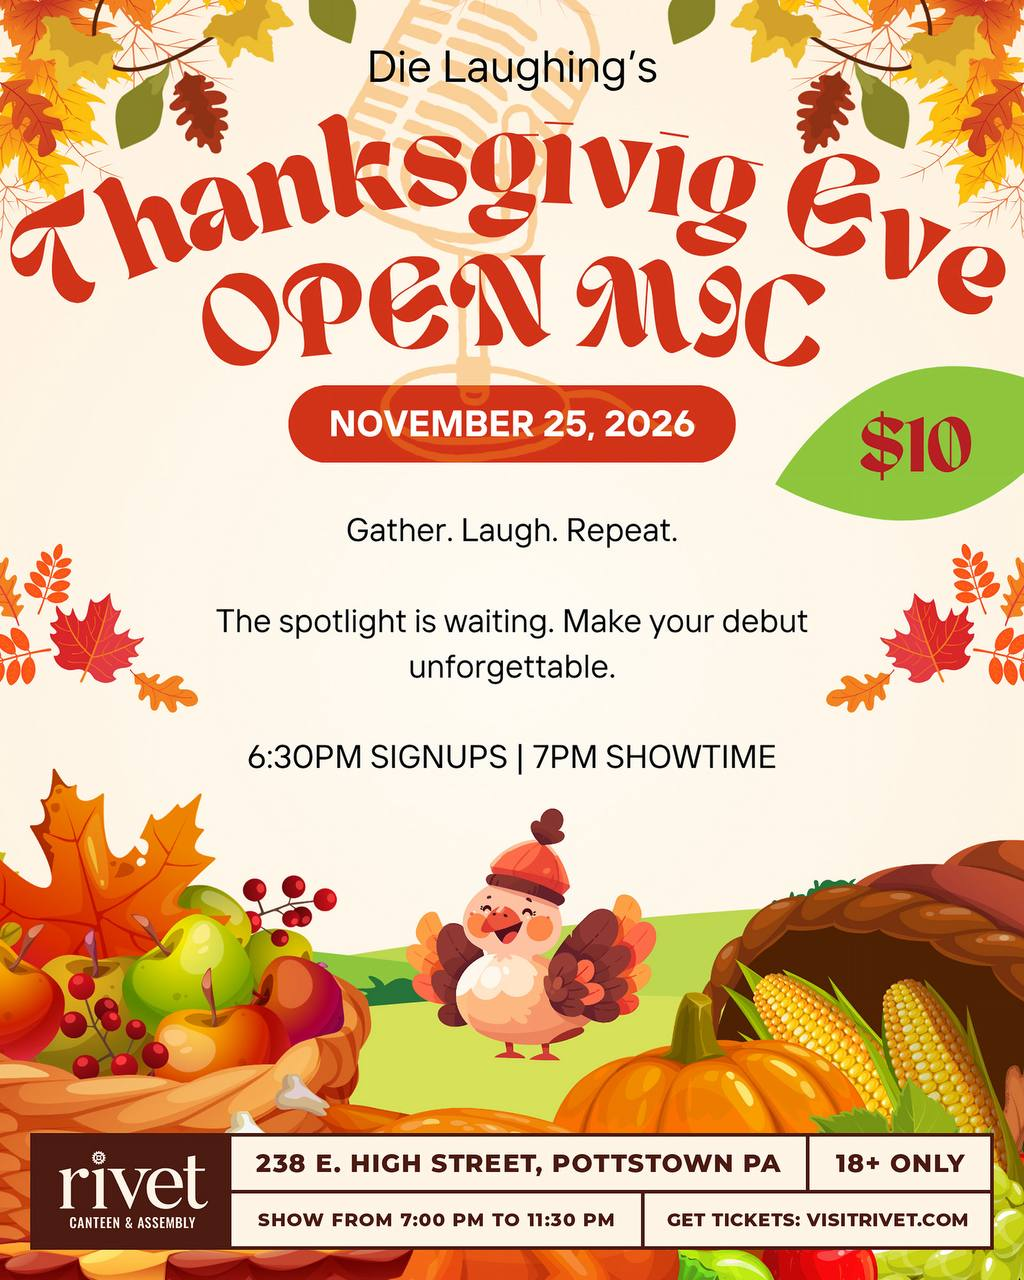
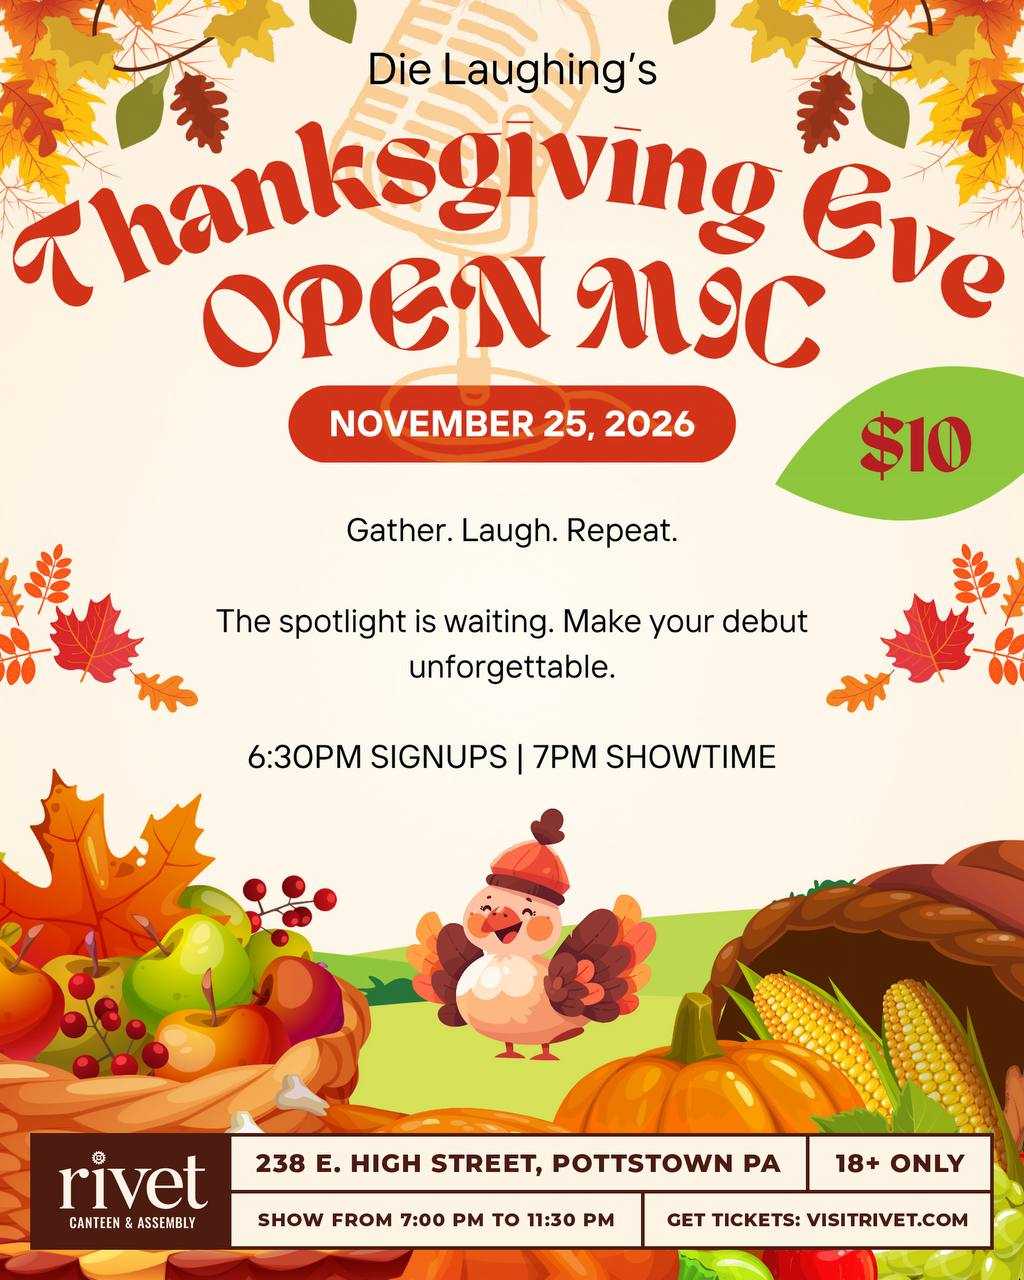
Add Sep 3, Sep 17, Nov 14, Dec 19 shows; archive Aug 6
Upcoming Shows:
- Sep 3  - Thirsty Thursday Open Mic Competition (Rivet, Pottstown), $10 door
- Sep 17 - Open Mic Comedy Night (Craft 2700 @ Freymoyer's, Reading), $10 door
- Nov 14 - Stuffin' It (Hotel Fiesole, Skippack), diestuffinit.eventbrite.com
- Dec 19 - A Hysterical Christmas (Hotel Fiesole, Skippack), dielaughingxmas.eventbrite.com

Also:
- Move Aug 6 Thirsty Thursday to Past Shows with its photo gallery link
- Replace Nov 25 Thanksgiving Eve flyer with version fixing "Thanksgivig" typo

Claude-Session: https://claude.ai/code/session_01RU1CjBsNL1P9VdQdH8oSWJ

diff --git a/home.html b/home.html
@@ -636,22 +636,43 @@
       </p>
     </div>
 
-    <!-- AUG 6TH SHOW - Thirsty Thursday Open Mic Competition at Rivet, Pottstown -->
-    <div class="swiper-slide show-card glass rounded-2xl p-6 sm:p-8 card-hover" data-show-date="2026-08-06">
+    <!-- SEP 3RD SHOW - Thirsty Thursday Open Mic Competition at Rivet, Pottstown -->
+    <div class="swiper-slide show-card glass rounded-2xl p-6 sm:p-8 card-hover" data-show-date="2026-09-03">
       <div class="flex justify-center">
         <div class="text-center">
           <img
-            src="flyer-thirsty-thursday-open-mic-aug6.jpg"
-            alt="Thirsty Thursday Open Mic Competition - Kickoff August 6, 2026 at Rivet, Pottstown PA"
-            width="1200" height="1500"
+            src="flyer-thirsty-thursday-open-mic-sep3.jpg"
+            alt="Thirsty Thursday Open Mic Competition - September 3, 2026 at Rivet, Pottstown PA"
+            width="1024" height="1280"
             class="w-full max-w-md mx-auto h-auto rounded-2xl shadow-2xl cursor-pointer hover:scale-105 transition ring-2 ring-white/10"
             loading="lazy" decoding="async"
-            onclick="openModal(this.src, 'Thirsty Thursday Open Mic Competition - August 6, 2026')">
+            onclick="openModal(this.src, 'Thirsty Thursday Open Mic Competition - September 3, 2026')">
           <p class="mt-6 inline-flex items-center gap-2 text-base font-bold text-white">
             <svg class="w-5 h-5 text-pink-400" fill="none" stroke="currentColor" stroke-width="2" viewBox="0 0 24 24" aria-hidden="true">
               <path stroke-linecap="round" stroke-linejoin="round" d="M15 5v2m0 4v2m0 4v2M5 5a2 2 0 0 0-2 2v3a2 2 0 0 1 0 4v3a2 2 0 0 0 2 2h14a2 2 0 0 0 2-2v-3a2 2 0 0 1 0-4V7a2 2 0 0 0-2-2H5z"/>
             </svg>
-            $10 cover at the door • 6:30 signups, 7PM showtime
+            $10 cover at the door &bull; 6:30 signups, 7PM showtime
+          </p>
+        </div>
+      </div>
+    </div>
+
+    <!-- SEP 17TH SHOW - Open Mic Comedy Night at Craft 2700 @ Freymoyer's, Reading -->
+    <div class="swiper-slide show-card glass rounded-2xl p-6 sm:p-8 card-hover" data-show-date="2026-09-17">
+      <div class="flex justify-center">
+        <div class="text-center">
+          <img
+            src="flyer-craft2700-open-mic-sep17.jpg"
+            alt="Open Mic Comedy Night presented by Die Laughing - September 17, 2026 at Craft 2700 @ Freymoyer's, Reading PA"
+            width="853" height="1280"
+            class="w-full max-w-md mx-auto h-auto rounded-2xl shadow-2xl cursor-pointer hover:scale-105 transition ring-2 ring-white/10"
+            loading="lazy" decoding="async"
+            onclick="openModal(this.src, 'Open Mic Comedy Night at Craft 2700 - September 17, 2026')">
+          <p class="mt-6 inline-flex items-center gap-2 text-base font-bold text-white">
+            <svg class="w-5 h-5 text-pink-400" fill="none" stroke="currentColor" stroke-width="2" viewBox="0 0 24 24" aria-hidden="true">
+              <path stroke-linecap="round" stroke-linejoin="round" d="M15 5v2m0 4v2m0 4v2M5 5a2 2 0 0 0-2 2v3a2 2 0 0 1 0 4v3a2 2 0 0 0 2 2h14a2 2 0 0 0 2-2v-3a2 2 0 0 1 0-4V7a2 2 0 0 0-2-2H5z"/>
+            </svg>
+            $10 entry at the door &bull; 6:30 registration, 7PM showtime
           </p>
         </div>
       </div>
@@ -757,6 +778,26 @@
       </div>
     </div>
 
+    <!-- NOV 14TH SHOW - Stuffin' It at Hotel Fiesole, Skippack -->
+    <div class="swiper-slide show-card glass rounded-2xl p-6 sm:p-8 card-hover" data-show-date="2026-11-14">
+      <div class="flex justify-center">
+        <div class="text-center">
+          <img
+            src="flyer-stuffin-it-nov14.jpg"
+            alt="Die Laughing: Stuffin' It - November 14, 2026 at Hotel Fiesole, Skippack PA"
+            width="989" height="1280"
+            class="w-full max-w-md mx-auto h-auto rounded-2xl shadow-2xl cursor-pointer hover:scale-105 transition ring-2 ring-white/10"
+            loading="lazy" decoding="async"
+            onclick="openModal(this.src, 'Stuffin It - November 14, 2026')">
+          <a href="https://diestuffinit.eventbrite.com/"
+             target="_blank" rel="noopener noreferrer"
+             class="tap mt-6 inline-block bg-gradient-to-r from-orange-500 to-pink-500 hover:from-orange-400 hover:to-pink-400 text-white font-bold py-4 px-10 rounded-full text-base transition focus-ring shadow-lg btn-glow">
+            Get Tickets &bull; Nov 14th
+          </a>
+        </div>
+      </div>
+    </div>
+
     <!-- NOV 25TH SHOW - Thanksgiving Eve Open Mic at Rivet, Pottstown -->
     <div class="swiper-slide show-card glass rounded-2xl p-6 sm:p-8 card-hover" data-show-date="2026-11-25">
       <div class="flex justify-center">
@@ -797,6 +838,26 @@
       </div>
     </div>
 
+    <!-- DEC 19TH SHOW - A Hysterical Christmas at Hotel Fiesole, Skippack -->
+    <div class="swiper-slide show-card glass rounded-2xl p-6 sm:p-8 card-hover" data-show-date="2026-12-19">
+      <div class="flex justify-center">
+        <div class="text-center">
+          <img
+            src="flyer-hysterical-christmas-dec19.jpg"
+            alt="Die Laughing Presents: A Hysterical Christmas - December 19, 2026 at Hotel Fiesole, Skippack PA"
+            width="1080" height="1080"
+            class="w-full max-w-md mx-auto h-auto rounded-2xl shadow-2xl cursor-pointer hover:scale-105 transition ring-2 ring-white/10"
+            loading="lazy" decoding="async"
+            onclick="openModal(this.src, 'A Hysterical Christmas - December 19, 2026')">
+          <a href="https://dielaughingxmas.eventbrite.com/"
+             target="_blank" rel="noopener noreferrer"
+             class="tap mt-6 inline-block bg-gradient-to-r from-orange-500 to-pink-500 hover:from-orange-400 hover:to-pink-400 text-white font-bold py-4 px-10 rounded-full text-base transition focus-ring shadow-lg btn-glow">
+            Get Tickets &bull; Dec 19th
+          </a>
+        </div>
+      </div>
+    </div>
+
       </div><!-- /swiper-wrapper -->
       <div class="swiper-button-prev"></div>
       <div class="swiper-button-next"></div>
@@ -812,6 +873,20 @@
     <h2 class="text-2xl sm:text-3xl md:text-4xl font-bold mb-6 sm:mb-8 text-center">Past Shows</h2>
     <div class="dl-swiper swiper" id="swiper-past">
       <div id="past-shows-grid" class="swiper-wrapper">
+
+      <!-- August 6, 2026 - Thirsty Thursday Open Mic Competition at Rivet, Pottstown -->
+      <figure class="swiper-slide bg-black/30 rounded-lg p-4 shadow">
+        <a href="https://photos.app.goo.gl/yrHiSM48UWs2FERv8"
+           target="_blank" rel="noopener noreferrer">
+          <img
+            src="flyer-thirsty-thursday-open-mic-aug6.jpg"
+            alt="Thirsty Thursday Open Mic Competition - August 6, 2026 at Rivet, Pottstown"
+            width="1200" height="1500"
+            class="w-full h-auto rounded-md cursor-pointer hover:scale-[1.02] transition"
+            loading="lazy" decoding="async">
+        </a>
+        <figcaption class="text-sm text-gray-300 font-semibold mt-3">August 6, 2026 Show<br><span class="text-xs">Click here for pictures of the show</span></figcaption>
+      </figure>
 
       <!-- July 10, 2026 - Sizzlin' Summer Showcase at Rivet, Pottstown -->
       <figure class="swiper-slide bg-black/30 rounded-lg p-4 shadow">
